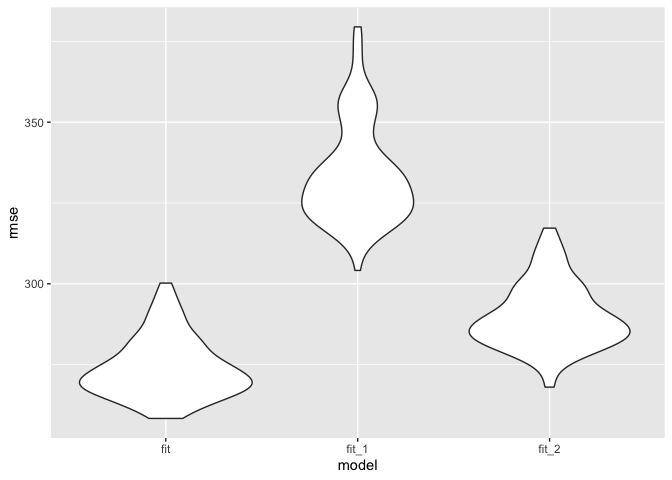
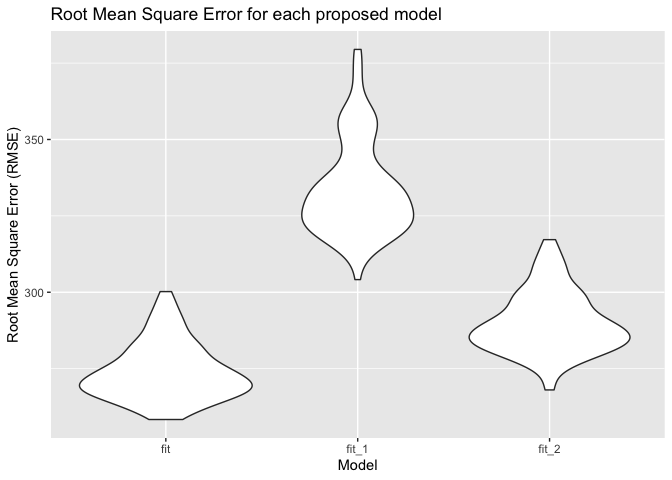
re-doing all of q2 to match what was asked of us. whoops. final committ

diff --git a/p8105_hw6_nja2140.md b/p8105_hw6_nja2140.md
@@ -569,14 +569,20 @@ cv_df %>%
     names_prefix = "rmse_") %>% 
   mutate(model - fct_inorder(model)) %>% 
   ggplot(aes(x = model, y = rmse)) +
-  geom_violin () 
+  geom_violin () +
+  labs(
+    title = "Root Mean Square Error for each proposed model",
+    x = "Model",
+    y = "Root Mean Square Error (RMSE)"
+  )
 ```
 
     ## Warning in Ops.factor(model, fct_inorder(model)): '-' not meaningful for
     ## factors
 
 ![](p8105_hw6_nja2140_files/figure-gfm/unnamed-chunk-25-1.png)<!-- -->
-From this plot, we can see model 3 is the best.
+From this plot, we can see model 1 is the best because the root mean
+square error is the smallest.
 
 Problem 2: Download the data
 
@@ -612,7 +618,6 @@ We’ll focus on a simple linear regression with tmax as the response and
 tmin as the predictor, and are interested in the distribution of two
 quantities estimated from these data. Use 5000 bootstrap samples and,
 for each bootstrap sample, produce estimates of these two quantities.
-Plot the distribution of your estimates, and describe these in words.
 
 Running the simple linear regression:
 
@@ -630,15 +635,130 @@ lm(tmax ~ tmin, data = weather_df) %>%
 Bootstrap samples:
 
 ``` r
+boot_sample = function(df) {
+  sample_frac(df, replace = TRUE)
+}
+```
+
+Drawing 5000 boostrap samples
+
+``` r
 boot_straps =
-  weather_df %>% 
-  modelr::bootstrap(n = 5000) 
+  tibble(
+    strap_number = 1:5000,
+    strap_sample = rerun(5000, boot_sample(weather_df))
+  )
 ```
 
 Estimates:
 
 ``` r
-boot_strap_results=
+boot_strap_results = 
+  boot_straps %>% 
+  mutate(
+    models = map(strap_sample, ~lm(tmax ~ tmin, data = .x)),
+    results = map(models, broom::tidy)) %>% 
+  select(-strap_sample, -models) %>% 
+  unnest(cols = c(results)) %>% 
+  select(strap_number, term, estimate) %>% 
+  pivot_wider(
+    names_from = "term",
+    values_from = "estimate"
+  ) %>% 
+  janitor::clean_names() %>% 
+  mutate(log = log(intercept*tmin)) %>% 
+  select(strap_number, log)
+boot_strap_results
+```
+
+    ## # A tibble: 5,000 x 2
+    ##    strap_number   log
+    ##           <int> <dbl>
+    ##  1            1  1.99
+    ##  2            2  2.01
+    ##  3            3  1.96
+    ##  4            4  2.02
+    ##  5            5  2.05
+    ##  6            6  2.04
+    ##  7            7  2.01
+    ##  8            8  2.02
+    ##  9            9  2.03
+    ## 10           10  2.02
+    ## # … with 4,990 more rows
+
+``` r
+boot_strap_r2 =
+  boot_straps %>% 
+  mutate(
+    models = map(strap_sample, ~lm(tmax ~ tmin, data=.x)),
+    results = map(models, broom::glance)) %>% 
+  select(-strap_sample, -models) %>% 
+  unnest(cols = c(results)) %>% 
+  select(strap_number, r.squared)
+boot_strap_r2
+```
+
+    ## # A tibble: 5,000 x 2
+    ##    strap_number r.squared
+    ##           <int>     <dbl>
+    ##  1            1     0.917
+    ##  2            2     0.903
+    ##  3            3     0.921
+    ##  4            4     0.909
+    ##  5            5     0.892
+    ##  6            6     0.914
+    ##  7            7     0.920
+    ##  8            8     0.920
+    ##  9            9     0.915
+    ## 10           10     0.902
+    ## # … with 4,990 more rows
+
+Plot the distribution of your estimates, and describe these in words.
+
+``` r
+plot_2 = 
+  boot_strap_results %>% 
+  ggplot(aes(x  = log)) +
+  geom_density()
+plot_2 +
+  labs(
+    title = "Distribution of estimates for  log(B0*B1)",
+    x = "Log(B0*B1)",
+    y = "Estimates"
+  )
+```
+
+![](p8105_hw6_nja2140_files/figure-gfm/unnamed-chunk-32-1.png)<!-- -->
+This distribution of estimates looks approximately normal.
+
+``` r
+plot_3 = 
+  boot_strap_r2 %>% 
+  ggplot(aes(x  = r.squared)) +
+  geom_density()
+plot_3 +
+  labs(
+    title = "Distribution of estimates for R Squared",
+    x = "R Squareed",
+    y = "Estimates"
+  )
+```
+
+![](p8105_hw6_nja2140_files/figure-gfm/unnamed-chunk-33-1.png)<!-- -->
+
+``` r
+plot_3
+```
+
+![](p8105_hw6_nja2140_files/figure-gfm/unnamed-chunk-33-2.png)<!-- -->
+The distribution of the r squared estimates looks slightly left skewed.
+
+Using the 5000 bootstrap estimates, identify the 2.5% and 97.5%
+quantiles to provide a 95% confidence interval for r̂ 2 and log(β̂ 0∗β̂
+1).
+
+``` r
+log_ci=
   weather_df %>% 
   modelr::bootstrap(n = 5000) %>% 
   mutate(models = map(strap, ~lm(tmax ~ tmin, data = .x)),
@@ -648,7 +768,7 @@ boot_strap_results=
   group_by(.id) %>% 
   summarize(log_coef = sum(log(estimate))) %>% 
   summarize(low_int = quantile(log_coef, 0.025), up_int = quantile(log_coef, .975))
-boot_strap_results
+log_ci
 ```
 
     ## # A tibble: 1 x 2
@@ -657,7 +777,7 @@ boot_strap_results
     ## 1    1.97   2.06
 
 ``` r
-bsr_r_squared =
+r2_ci =
   weather_df %>% 
   modelr::bootstrap(n = 5000) %>% 
   mutate(models = map(strap, ~lm(tmax ~ tmin, data = .x)),
@@ -665,7 +785,7 @@ bsr_r_squared =
   select(-strap, -models) %>% 
   unnest(results) %>% 
   summarize(low_int = quantile(r.squared, 0.025), up_int = quantile(r.squared, .975))
-bsr_r_squared
+r2_ci
 ```
 
     ## # A tibble: 1 x 2
